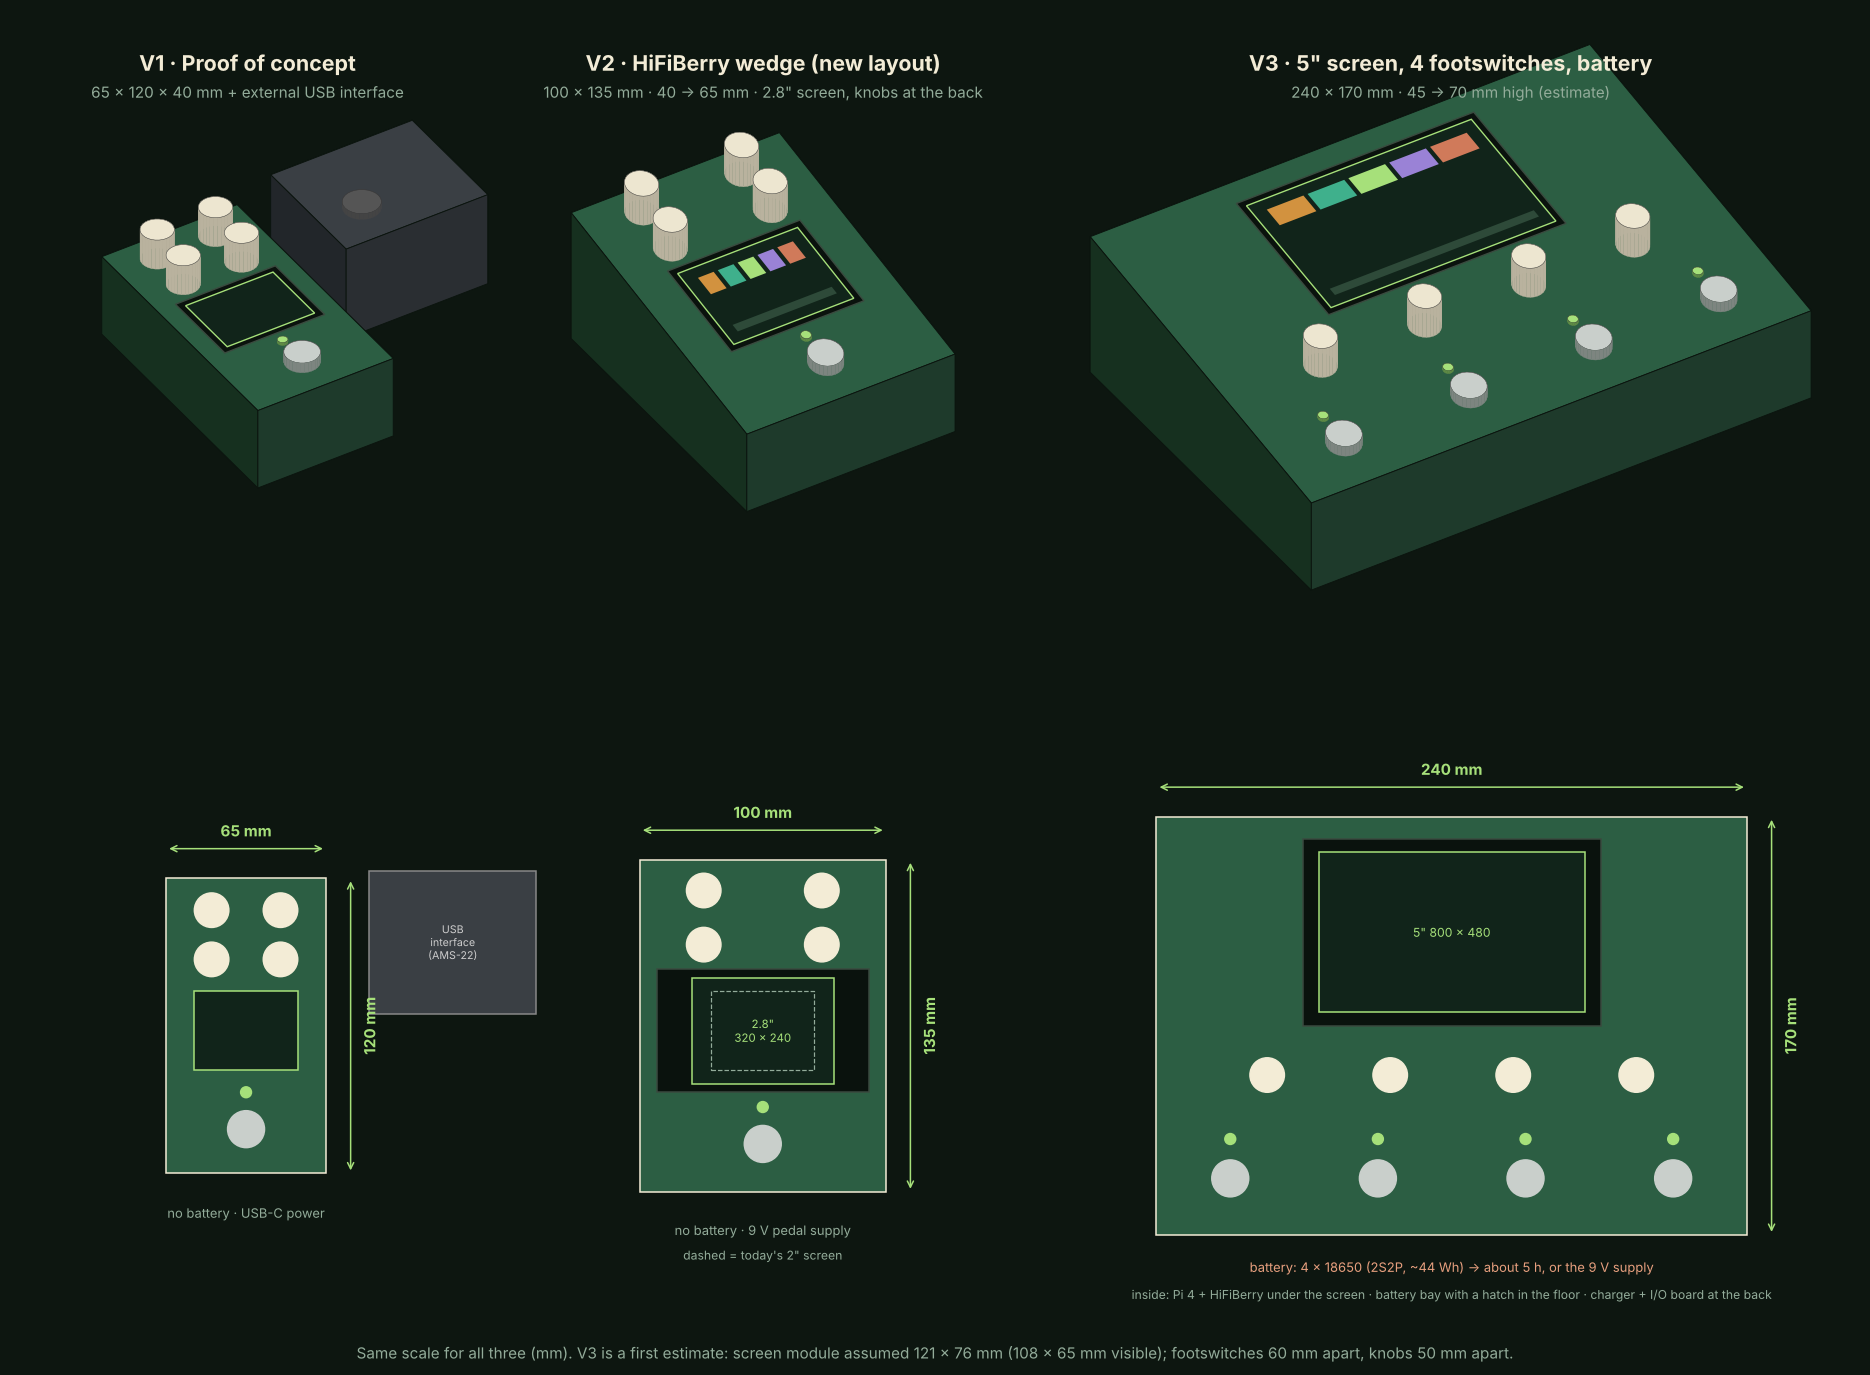
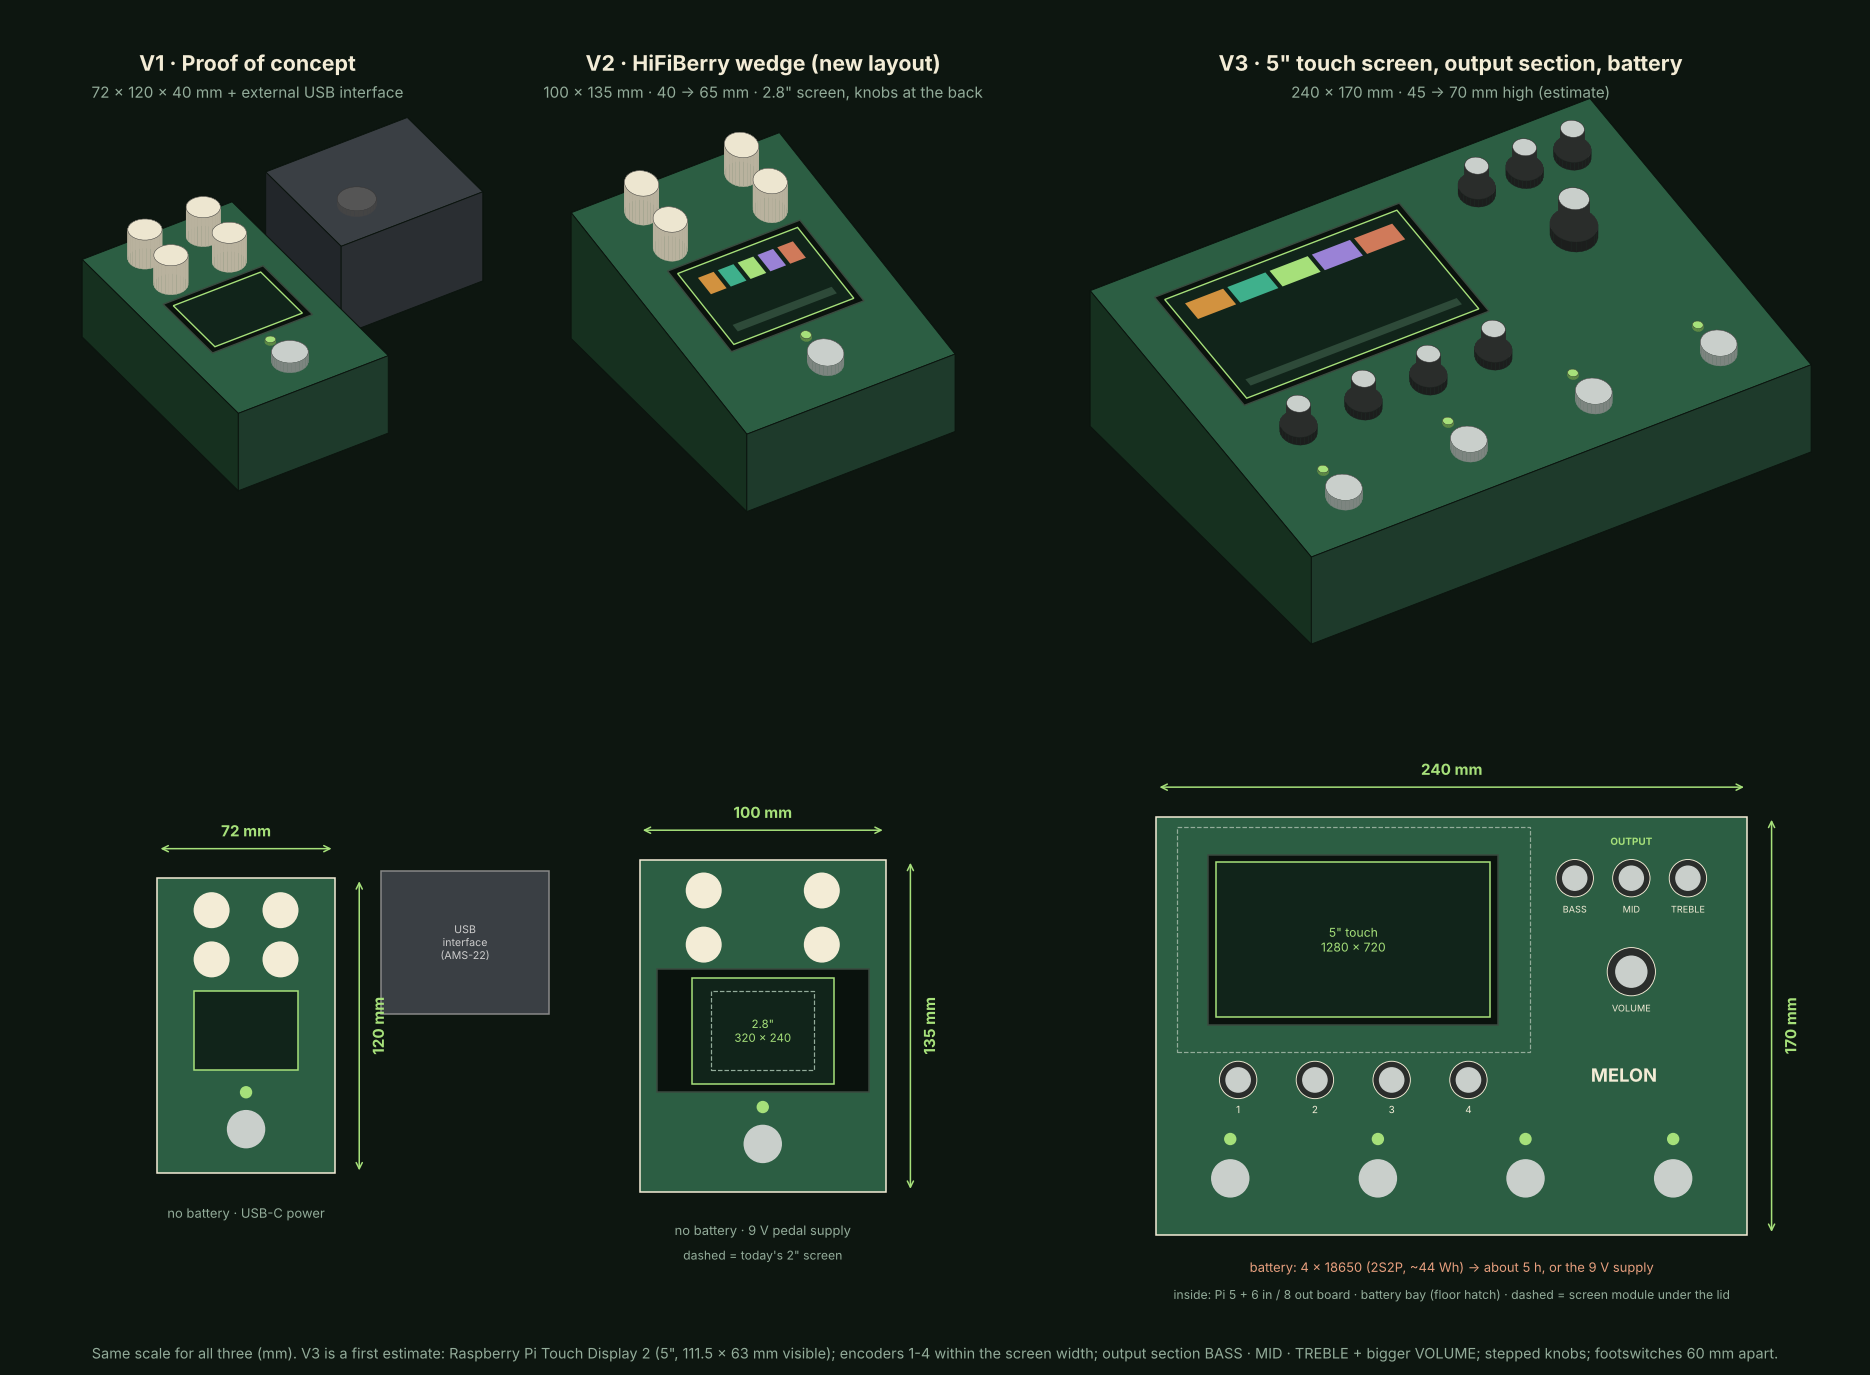
Three-versions picture: V1 at 72 mm, V3 with touch screen, output section and stepped knobs
- add tools/render_three_versions.py (the generator, was not in the repo)

Claude-Session: https://claude.ai/code/session_01ECLxpAKN3sxNJa1vdSt4CW

diff --git a/tools/render_three_versions.py b/tools/render_three_versions.py
@@ -1,0 +1,223 @@
+"""Melon Pedal: V1 (PoC), V2 (HiFiBerry wedge), V3 (touch screen, output section, battery). To scale.
+
+    python3 tools/render_three_versions.py   ->  docs/images/three-versions.png  (matplotlib)
+"""
+import math
+import matplotlib
+matplotlib.use("Agg")
+import matplotlib.pyplot as plt
+from matplotlib.patches import Polygon, Rectangle, Circle, FancyBboxPatch
+
+DARK, CREAM, LIME, GHOST = "#0D1610", "#F3ECD6", "#A6E07A", "#93AC9A"
+TOP, FRONT, SIDE = "#2C5E43", "#1E3A2B", "#16301F"
+METAL, METAL_D = "#C9CFCB", "#7D8580"
+CELL = "#C8562F"
+
+TH, PH = math.radians(32), math.radians(38)
+def proj(p):
+    x, y, z = p
+    X = x * math.cos(TH) - y * math.sin(TH)
+    Y = x * math.sin(TH) + y * math.cos(TH)
+    return (X, Y * math.sin(PH) + z * math.cos(PH)), Y * math.cos(PH) - z * math.sin(PH)
+
+class Scene:
+    def __init__(self):
+        self.polys = []
+    def add(self, pts, fc, ec="#0b140e", lw=0.6, bias=0.0, layer=1):
+        pr = [proj(p) for p in pts]
+        d = sum(q[1] for q in pr) / len(pr) + bias
+        self.polys.append((layer, d, [q[0] for q in pr], fc, ec, lw))
+    def draw(self, ax, dx=0.0, dy=0.0):
+        for layer, d, pts, fc, ec, lw in sorted(self.polys, key=lambda t: (t[0], -t[1])):
+            ax.add_patch(Polygon([(u + dx, v + dy) for u, v in pts], closed=True, facecolor=fc, edgecolor=ec, lw=lw))
+
+def wedge(sc, x0, x1, y0, y1, hf, hb, top=TOP, front=FRONT, side=SIDE):
+    A, B, C, D = (x0, y0, 0), (x1, y0, 0), (x1, y1, 0), (x0, y1, 0)
+    E, F, G, H = (x0, y0, hf), (x1, y0, hf), (x1, y1, hb), (x0, y1, hb)
+    sc.add([E, F, G, H], top, layer=0); sc.add([A, B, F, E], front, layer=0); sc.add([A, D, H, E], side, layer=0)
+    sc.add([B, C, G, F], side, layer=0); sc.add([D, C, G, H], side, bias=5, layer=0)
+
+def zt(y, y0, y1, hf, hb):
+    return hf + (y - y0) * (hb - hf) / (y1 - y0)
+
+def cylinder(sc, cx, cy, z0, r, h, color, side_color, n=28, slope=None):
+    pts = [(cx + r * math.cos(2 * math.pi * i / n), cy + r * math.sin(2 * math.pi * i / n)) for i in range(n)]
+    base = lambda x, y: z0 if slope is None else zt(y, *slope)
+    for i in range(n):
+        (xa, ya), (xb, yb) = pts[i], pts[(i + 1) % n]
+        sc.add([(xa, ya, base(xa, ya)), (xb, yb, base(xb, yb)), (xb, yb, base(xb, yb) + h), (xa, ya, base(xa, ya) + h)],
+               side_color, ec=side_color, lw=0.2, bias=-0.5, layer=4)
+    sc.add([(x, y, base(x, y) + h) for x, y in pts], color, ec="#333", lw=0.3, bias=-1.5, layer=4)
+
+def lid_rect(sc, x0, x1, ya, yb, slope, fc, ec=LIME, lift=0.4, bias=0.0, layer=3):
+    sc.add([(x0, ya, zt(ya, *slope) + lift), (x1, ya, zt(ya, *slope) + lift),
+            (x1, yb, zt(yb, *slope) + lift), (x0, yb, zt(yb, *slope) + lift)], fc, ec=ec, lw=0.9, bias=bias, layer=layer)
+
+def knob(sc, x, y, slope):
+    cylinder(sc, x, y, None, 7.0, 15, "#EDE6D0", "#B9B29E", slope=slope)
+
+def stepped(sc, x, y, slope, r=7.6):
+    """Stepped knob: wide skirt, narrower cap on top (V3)."""
+    cylinder(sc, x, y, None, r, 4.0 * r / 7.6, "#2a2d2b", "#1c1e1d", slope=slope)
+    sk = (slope[0], slope[1], slope[2] + 4.0 * r / 7.6, slope[3] + 4.0 * r / 7.6)
+    cylinder(sc, x, y, None, 0.64 * r, 10.5 * r / 7.6, "#C9CFCB", "#2a2d2b", slope=sk)
+
+def footswitch(sc, x, y, slope):
+    cylinder(sc, x, y, None, 7.5, 5, METAL, METAL_D, slope=slope)
+
+def led(sc, x, y, slope):
+    cylinder(sc, x, y, None, 2.2, 1.5, LIME, "#5f8a45", n=14, slope=slope)
+
+def screen(sc, cx, cy, w, h, slope, ui=True):
+    lid_rect(sc, cx - w / 2 - 3, cx + w / 2 + 3, cy - h / 2 - 3, cy + h / 2 + 3, slope, "#0A120D", ec="#3a4a3f", layer=1)
+    lid_rect(sc, cx - w / 2, cx + w / 2, cy - h / 2, cy + h / 2, slope, "#11241A", ec=LIME, layer=2)
+    if ui:   # a few UI blocks, like the chain strip
+        n = 5; bw = (w - 10) / n
+        for i in range(n):
+            x0 = cx - w / 2 + 5 + i * bw
+            lid_rect(sc, x0 + 1, x0 + bw - 1, cy + h / 2 - 16, cy + h / 2 - 6, slope,
+                     ["#d2923f", "#3fb08c", LIME, "#9a82d6", "#d07a5a"][i], ec="none", lift=0.8, bias=-1.2)
+        lid_rect(sc, cx - w / 2 + 5, cx + w / 2 - 5, cy - h / 2 + 5, cy - h / 2 + 9, slope, "#2E4A39", ec="none",
+                 lift=0.8, bias=-1.2)
+
+def box(sc, x0, x1, y0, y1, z0, z1, top, front, side):
+    wedge(sc, x0, x1, y0, y1, z1 - z0, z1 - z0, top, front, side) if z0 == 0 else None
+
+# ------------------------------------------------------------------ the three pedals
+def v1(sc, dx=0):
+    W, L, H = 72, 120, 40
+    y0, y1 = -L / 2, L / 2
+    s = (y0, y1, H, H)
+    wedge(sc, dx - W / 2, dx + W / 2, y0, y1, H, H)
+    footswitch(sc, dx, -42, s); led(sc, dx, -27, s)
+    screen(sc, dx, -2, 42, 32, s, ui=False)
+    for x in (-14, 14):
+        for y in (27, 47):
+            knob(sc, dx + x, y, s)
+    # external USB interface (Zoom AMS-22 size) behind/right, with a cable
+    ax0 = dx + W / 2 + 18
+    wedge(sc, ax0, ax0 + 68, 5, 63, 46, 46, top="#3a3f44", front="#2a2e32", side="#22262a")
+    cylinder(sc, ax0 + 20, 25, 46, 8, 3, "#555", "#444")
+    return W, L
+
+def v2(sc, dx=0):
+    W, L, hf, hb = 100, 135, 40, 65
+    y0, y1 = -L / 2, L / 2
+    s = (y0, y1, hf, hb)
+    wedge(sc, dx - W / 2, dx + W / 2, y0, y1, hf, hb)
+    footswitch(sc, dx, -48, s); led(sc, dx, -33, s)
+    screen(sc, dx, -2, 57.6, 43.2, s)                      # 2.8" ILI9341, landscape
+    for x, y in V2_KNOBS:
+        knob(sc, dx + x, y, s)
+    return W, L
+
+V2_KNOBS = [(-24, 33), (24, 33), (-24, 55), (24, 55)]
+
+V3 = dict(W=240, L=170, hf=45, hb=70)
+def v3(sc, dx=0):
+    W, L, hf, hb = V3["W"], V3["L"], V3["hf"], V3["hb"]
+    y0, y1 = -L / 2, L / 2
+    s = (y0, y1, hf, hb)
+    wedge(sc, dx - W / 2, dx + W / 2, y0, y1, hf, hb)
+    for x in (-90, -30, 30, 90):
+        footswitch(sc, dx + x, -62, s); led(sc, dx + x, -46, s)
+    screen(sc, dx + V3_SCREEN[0], V3_SCREEN[1], 111.5, 63, s)
+    for x in V3_ENC:
+        stepped(sc, dx + x, -22, s)
+    for (x, y), r, _ in V3_OUT:
+        stepped(sc, dx + x, y, s, r)
+    return W, L
+
+V3_SCREEN = (-40, 35)                       # window centre; Touch Display 2 5": viewing 111.5 x 63, module 143.5 x 91.5
+V3_ENC = [-86.8, -55.6, -24.4, 6.8]          # encoders 1-4 under the screen, inside its width
+V3_OUT = [((50, 60), 7.6, "BASS"), ((73, 60), 7.6, "MID"), ((96, 60), 7.6, "TREBLE"), ((73, 22), 9.8, "VOLUME")]
+
+# ------------------------------------------------------------------ figure
+fig = plt.figure(figsize=(17, 12.5), facecolor=DARK)
+ax = fig.add_axes([0.0, 0.47, 1.0, 0.5]); ax.set_facecolor(DARK); ax.set_aspect("equal"); ax.axis("off")
+sc = Scene(); v1(sc); sc.draw(ax, dx=-305)
+sc = Scene(); v2(sc); sc.draw(ax, dx=-90)
+sc = Scene(); v3(sc); sc.draw(ax, dx=190, dy=-22)
+for x, t, sub in [(-300, "V1 · Proof of concept", "72 × 120 × 40 mm + external USB interface"),
+                  (-90, "V2 · HiFiBerry wedge (new layout)", "100 × 135 mm · 40 → 65 mm · 2.8\" screen, knobs at the back"),
+                  (190, "V3 · 5\" touch screen, output section, battery", "240 × 170 mm · 45 → 70 mm high (estimate)")]:
+    ax.text(x, 128, t, color=CREAM, fontsize=14, fontweight="bold", ha="center")
+    ax.text(x, 117, sub, color=GHOST, fontsize=10, ha="center")
+ax.set_xlim(-400, 360); ax.set_ylim(-140, 140)
+
+# ---- top views, all to the same scale
+axt = fig.add_axes([0.0, 0.03, 1.0, 0.43]); axt.set_facecolor(DARK); axt.set_aspect("equal"); axt.axis("off")
+
+def dims(cx, y0, y1, W, color=LIME):
+    axt.annotate("", xy=(cx - W / 2, y1 + 12), xytext=(cx + W / 2, y1 + 12), arrowprops=dict(arrowstyle="<->", color=color))
+    axt.text(cx, y1 + 17, f"{W:.0f} mm", color=color, ha="center", fontsize=10, fontweight="bold")
+    axt.annotate("", xy=(cx + W / 2 + 10, y0), xytext=(cx + W / 2 + 10, y1), arrowprops=dict(arrowstyle="<->", color=color))
+    axt.text(cx + W / 2 + 14, (y0 + y1) / 2, f"{y1 - y0:.0f} mm", color=color, rotation=90, va="center", fontsize=10,
+             fontweight="bold")
+
+def inner(x0, y0, w, h, label, color=GHOST, fill=None):
+    axt.add_patch(Rectangle((x0, y0), w, h, fill=fill is not None, facecolor=fill or "none", edgecolor=color, ls=":",
+                            lw=1, alpha=0.9))
+    axt.text(x0 + w / 2, y0 + h / 2, label, color=color, fontsize=6.5, ha="center", va="center")
+
+# V1
+cx = -300
+axt.add_patch(Rectangle((cx - 36, -60), 72, 120, facecolor=TOP, edgecolor=CREAM))
+axt.add_patch(Circle((cx, -42), 7.5, color=METAL)); axt.add_patch(Circle((cx, -27), 2.2, color=LIME))
+axt.add_patch(Rectangle((cx - 21, -18), 42, 32, facecolor="#11241A", edgecolor=LIME))
+for x in (-14, 14):
+    for y in (27, 47):
+        axt.add_patch(Circle((cx + x, y), 7, color=CREAM))
+dims(cx, -60, 60, 72)
+axt.add_patch(Rectangle((cx + 55, 5), 68, 58, facecolor="#3a3f44", edgecolor="#888"))
+axt.text(cx + 89, 34, "USB\ninterface\n(AMS-22)", color="#ccc", fontsize=7, ha="center", va="center")
+axt.text(cx, -78, "no battery · USB-C power", color=GHOST, fontsize=8.5, ha="center")
+
+# V2
+cx = -90
+axt.add_patch(Rectangle((cx - 50, -67.5), 100, 135, facecolor=TOP, edgecolor=CREAM))
+axt.add_patch(Circle((cx, -48), 7.5, color=METAL)); axt.add_patch(Circle((cx, -33), 2.2, color=LIME))
+axt.add_patch(Rectangle((cx - 43, -27), 86, 50, facecolor="#0A120D", edgecolor="#3a4a3f"))
+axt.add_patch(Rectangle((cx - 28.8, -23.6), 57.6, 43.2, facecolor="#11241A", edgecolor=LIME))
+axt.text(cx, -2, '2.8"\n320 × 240', color=LIME, fontsize=7.5, ha="center", va="center")
+axt.add_patch(Rectangle((cx - 21, -18), 42, 32, fill=False, edgecolor=GHOST, ls="--", lw=0.8))
+for x, y in V2_KNOBS:
+    axt.add_patch(Circle((cx + x, y), 7, color=CREAM))
+dims(cx, -67.5, 67.5, 100)
+axt.text(cx, -85, "no battery · 9 V pedal supply", color=GHOST, fontsize=8.5, ha="center")
+axt.text(cx, -95, "dashed = today's 2\" screen", color=GHOST, fontsize=8, ha="center")
+
+# V3
+cx = 190; W, L = V3["W"], V3["L"]
+axt.add_patch(Rectangle((cx - W / 2, -L / 2), W, L, facecolor=TOP, edgecolor=CREAM))
+sx, sy = cx + V3_SCREEN[0], V3_SCREEN[1]
+axt.add_patch(Rectangle((sx - 71.75, sy - 45.75), 143.5, 91.5, fill=False, edgecolor=GHOST, ls="--", lw=0.8))
+axt.add_patch(Rectangle((sx - 59, sy - 34.5), 118, 69, facecolor="#0A120D", edgecolor="#3a4a3f"))
+axt.add_patch(Rectangle((sx - 55.75, sy - 31.5), 111.5, 63, facecolor="#11241A", edgecolor=LIME))
+axt.text(sx, sy, "5\" touch\n1280 × 720", color=LIME, fontsize=8, ha="center", va="center")
+for i, x in enumerate(V3_ENC):
+    axt.add_patch(Circle((cx + x, -22), 7.6, color="#2a2d2b", ec=CREAM, lw=0.6))
+    axt.add_patch(Circle((cx + x, -22), 4.9, color=METAL))
+    axt.text(cx + x, -34, str(i + 1), color=CREAM, fontsize=6.5, ha="center", va="center")
+for (x, y), r, lab in V3_OUT:
+    axt.add_patch(Circle((cx + x, y), r, color="#2a2d2b", ec=CREAM, lw=0.6))
+    axt.add_patch(Circle((cx + x, y), 0.64 * r, color=METAL))
+    axt.text(cx + x, y - r - 5, lab, color=CREAM, fontsize=6, ha="center", va="center")
+axt.text(cx + 73, 75, "OUTPUT", color=LIME, fontsize=6.5, ha="center", va="center", fontweight="bold")
+axt.text(cx + 70, -20, "MELON", color=CREAM, fontsize=12, ha="center", va="center", fontweight="bold")
+for x in (-90, -30, 30, 90):
+    axt.add_patch(Circle((cx + x, -62), 7.5, color=METAL)); axt.add_patch(Circle((cx + x, -46), 2.2, color=LIME))
+dims(cx, -L / 2, L / 2, W)
+axt.text(cx, -L / 2 - 15, "battery: 4 × 18650 (2S2P, ~44 Wh) → about 5 h, or the 9 V supply", color="#E8A07F",
+         fontsize=8.5, ha="center")
+axt.text(cx, -L / 2 - 26, "inside: Pi 5 + 6 in / 8 out board · battery bay (floor hatch) · "
+         "dashed = screen module under the lid", color=GHOST, fontsize=8, ha="center")
+
+axt.set_xlim(-400, 360); axt.set_ylim(-125, 115)
+fig.text(0.5, 0.012, "Same scale for all three (mm). V3 is a first estimate: Raspberry Pi Touch Display 2 (5\", 111.5 × 63 mm "
+         "visible); encoders 1-4 within the screen width; output section BASS · MID · TREBLE + bigger VOLUME; stepped knobs; "
+         "footswitches 60 mm apart.", color=GHOST, ha="center", fontsize=9.5)
+import os
+OUT = os.path.join(os.path.dirname(os.path.abspath(__file__)), "..", "docs", "images", "three-versions.png")
+plt.savefig(OUT, dpi=110, facecolor=DARK)
+print("ok")
